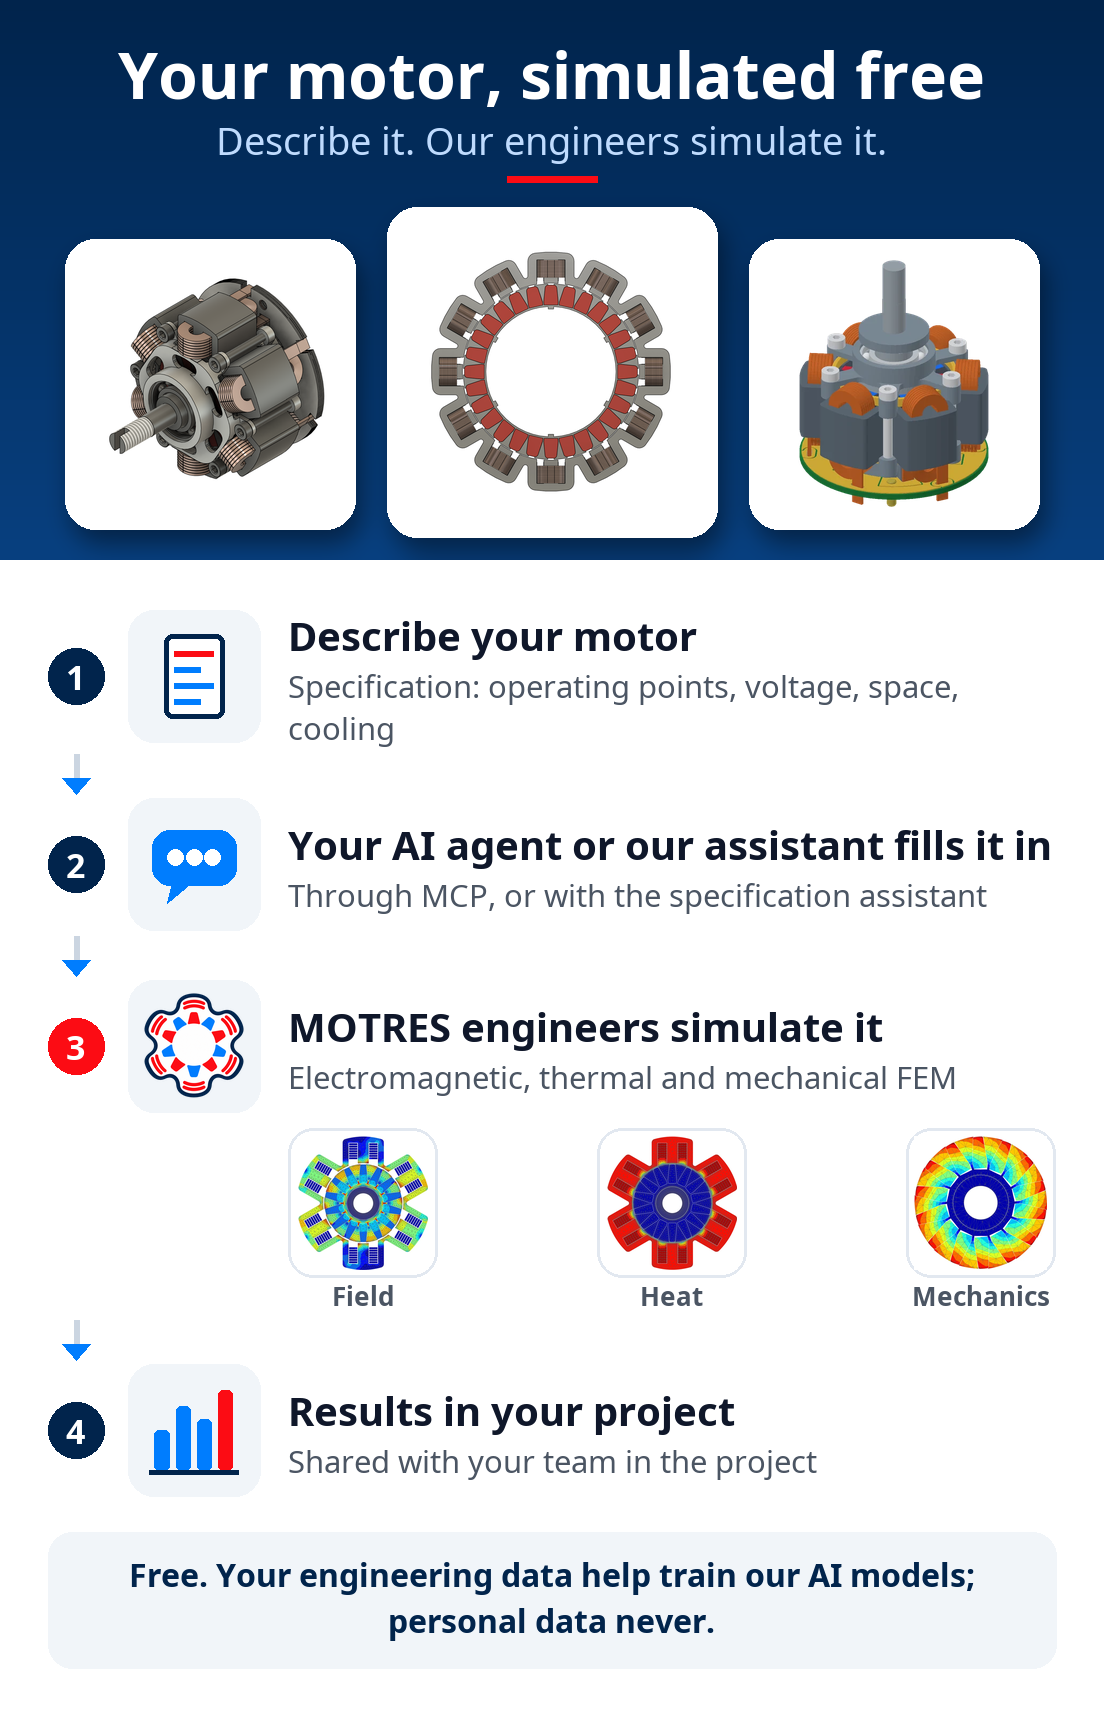
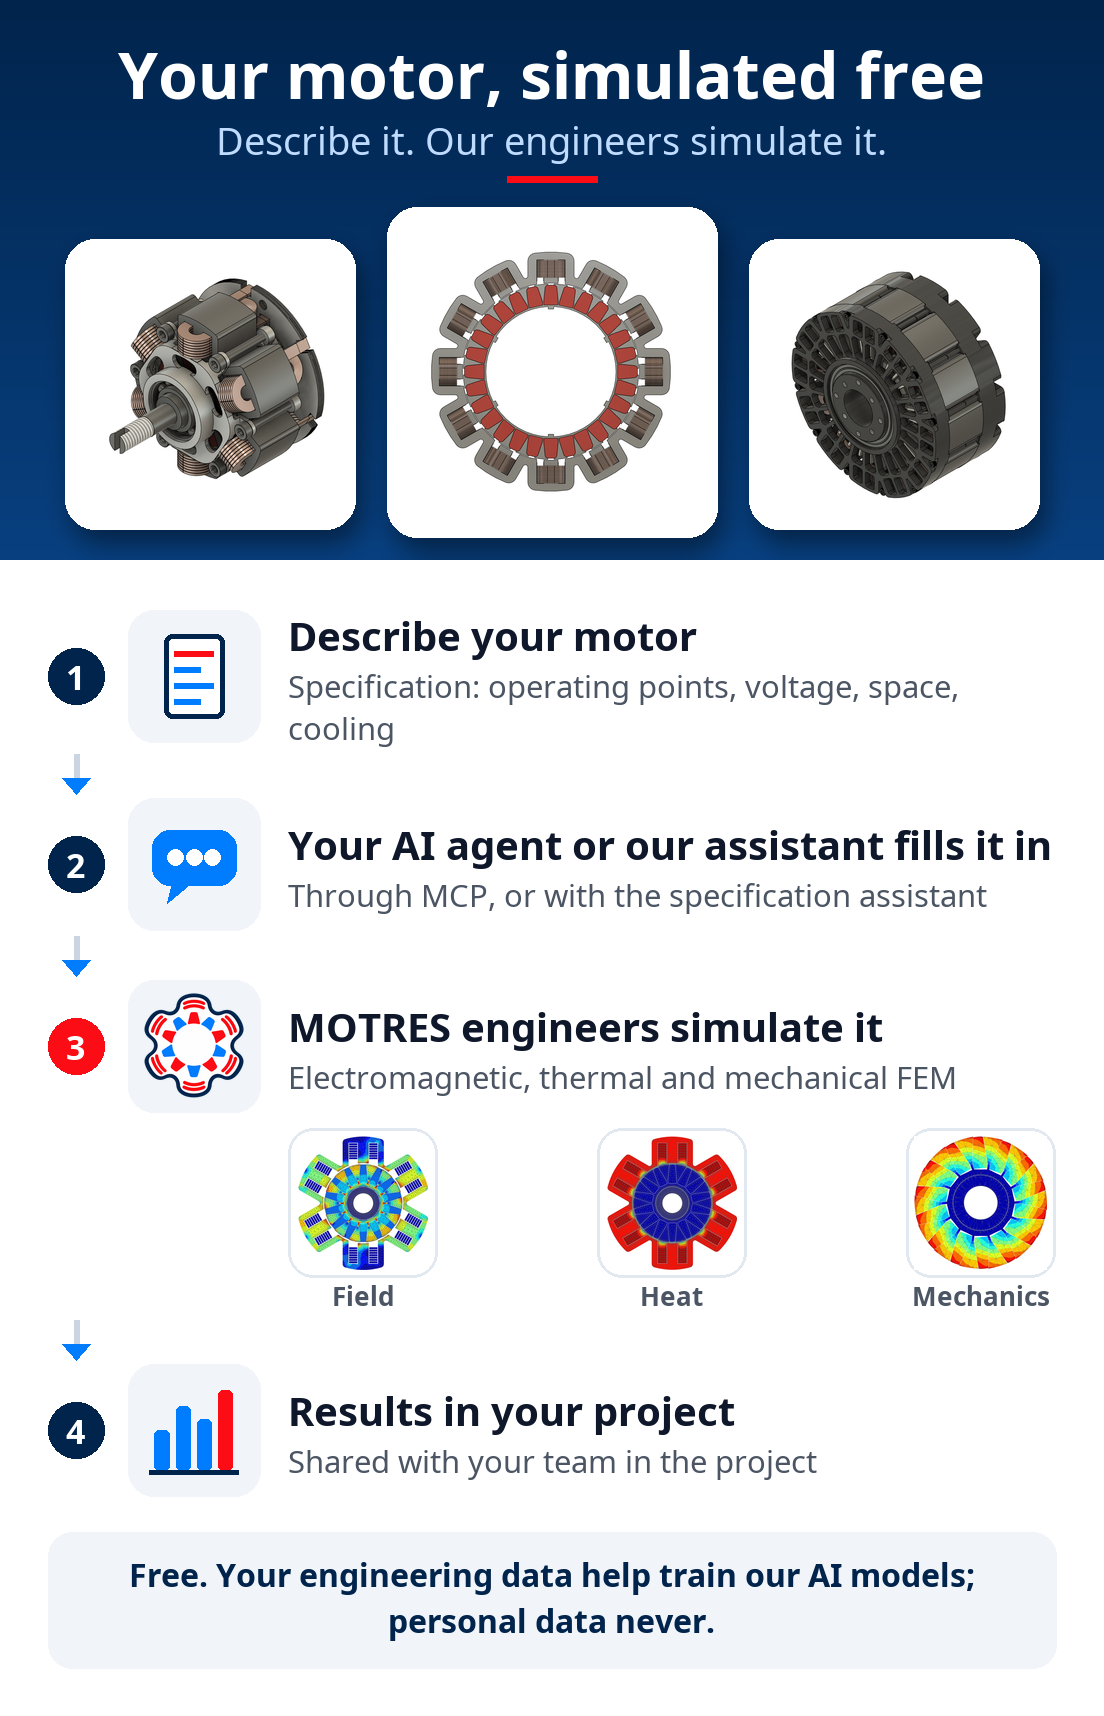
feat(mail): third hero picture = CIANO42 150_30 render from emotres.com (owner 2026-11-11)

Changed region(s): [[0.7083, 0.1544, 0.9239, 0.3089]]

diff --git a/scripts/make_mail_flow_image.py b/scripts/make_mail_flow_image.py
@@ -9,8 +9,8 @@ shows the electromagnetic, thermal and displacement maps the landing page alread
 
 * ``web/public/landing/core-l12.webp`` and the three ``web/public/landing/*-map/field`` pictures - CIANO14 40 L12, a public
   catalogue motor (``scripts/landing_images.py``);
-* ``config/mail/images/src/aerostator-core.png`` and ``ciano14-40-l12.png`` - trimmed copies of the renders on the public
-  emotres.com home page.
+* ``config/mail/images/src/aerostator-core.png``, ``ciano14-40-l12.png`` and ``ciano42-150-30.png`` - trimmed copies of the renders on the public
+  emotres.com pages (home, /shop/ciano-150-30/).
 
 Never a customer or project motor.  No prices, dates or customer data.  The mailer embeds the PNG in the message (``cid:``),
 so nothing is fetched from a server when the mail is opened.
@@ -24,7 +24,7 @@ from PIL import Image, ImageDraw, ImageFilter, ImageFont
 ROOT = Path(__file__).resolve().parents[1]
 OUT = ROOT / "config" / "mail" / "images"
 LANDING = ROOT / "web" / "public" / "landing"
-HERO = [OUT / "src" / "ciano14-40-l12.png", OUT / "src" / "aerostator-core.png", LANDING / "core-l12.webp"]
+HERO = [OUT / "src" / "ciano14-40-l12.png", OUT / "src" / "aerostator-core.png", OUT / "src" / "ciano42-150-30.png"]
 MAPS = [LANDING / "em-field.webp", LANDING / "thermal-map.webp", LANDING / "rotor-displacement.webp"]
 
 NAVY, NAVY2, BLUE, RED = (1, 36, 76), (8, 64, 128), (0, 125, 254), (252, 12, 20)
